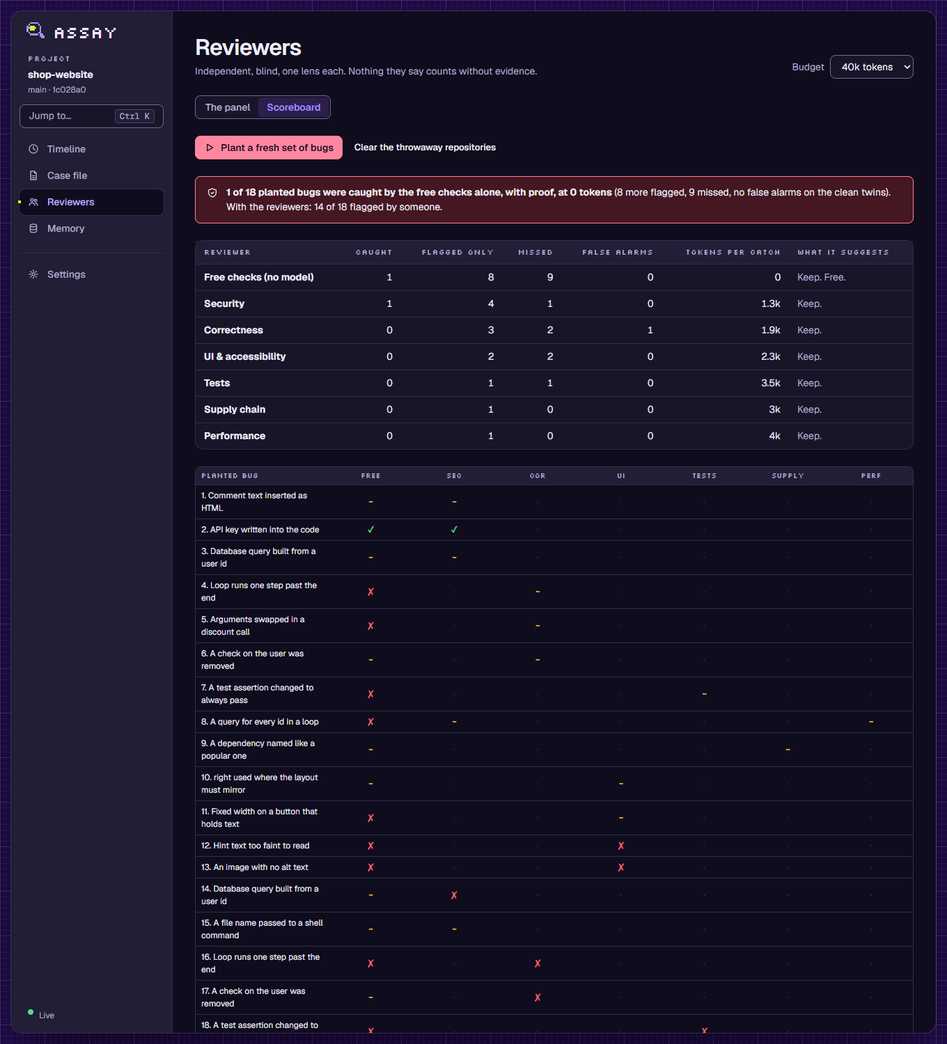
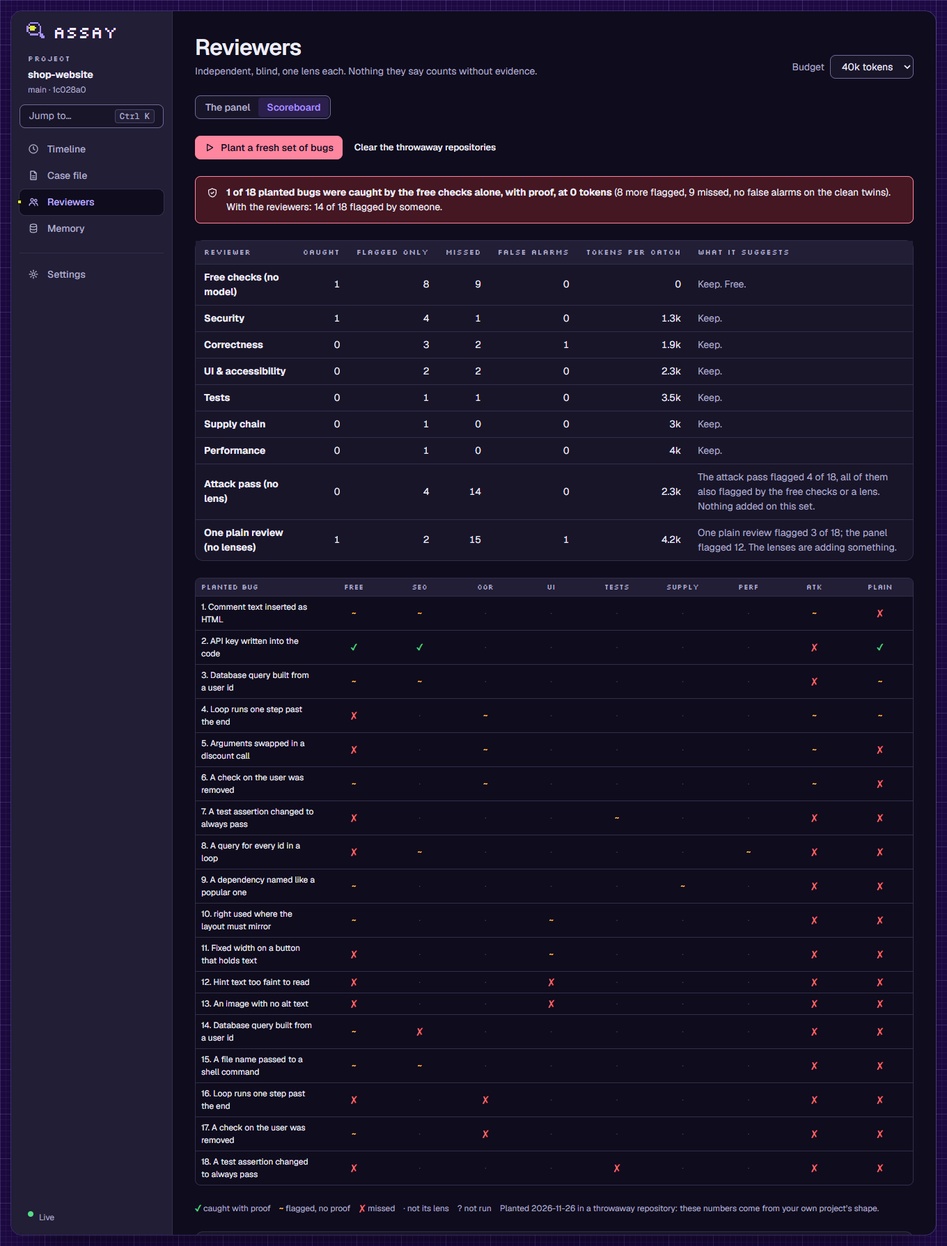
Show the attack pass and a replay of your own history in the demo
The demo's Scoreboard gets an Attack pass row and an Atk column (with what it adds over the free checks and the lenses) next to the plain review, and a From your own history card with sample data. The screenshots script reports as the attack pass and the plain review, and the dashboard's scoreboard picture is retaken with both. 205 tests.

diff --git a/demo/index.html b/demo/index.html
@@ -458,7 +458,7 @@ pre.code, .rawblock { margin: 0; padding: var(--s3) var(--s4); border-radius: va
 .bignum b { font-size: var(--t-xl); letter-spacing: -0.02em; font-variant-numeric: tabular-nums; }
 .bignum span { color: var(--text-dim); font-size: var(--t-xs); }
 .mx { display: grid; border: 1px solid var(--border); border-radius: var(--r1); overflow: hidden; }
-.mx-row { display: grid; grid-template-columns: minmax(180px, 1.6fr) repeat(8, minmax(52px, 1fr)); }
+.mx-row { display: grid; grid-template-columns: minmax(180px, 1.6fr) repeat(9, minmax(48px, 1fr)); }
 .mx-row > div { padding: 6px var(--s2); border-bottom: 1px solid var(--border); font-size: var(--t-xs); text-align: center; display: grid; place-items: center; }
 .mx-row > div:first-child { text-align: left; place-items: center start; }
 .mx-row:last-child > div { border-bottom: 0; }
@@ -520,7 +520,7 @@ textarea.brief { width: 100%; min-height: 220px; padding: var(--s3); border: 1px
   .cmp-matrix { grid-template-columns: repeat(2, minmax(0, 1fr)); }
   .cmp-side { grid-template-columns: 1fr; }
   .stepper, .rgrid { grid-template-columns: 1fr; }
-  .mx-row { grid-template-columns: minmax(150px, 1.6fr) repeat(8, minmax(40px, 1fr)); }
+  .mx-row { grid-template-columns: minmax(150px, 1.6fr) repeat(9, minmax(36px, 1fr)); }
   .page-title { font-size: var(--t-2xl, 1.875rem); }
 }
 @media (prefers-reduced-motion: reduce) {
@@ -793,21 +793,22 @@ const CAL_ROWS = [
   { id: 'ui', name: 'UI & accessibility', tokens: 3400, alarms: 0 },
   { id: 'sup', name: 'Supply chain', tokens: 2200, alarms: 1 },
   { id: 'perf', name: 'Performance', tokens: 3000, alarms: 2 },
+  { id: 'attack', name: 'Attack pass (no lens)', tokens: 7200, alarms: 2 },
   { id: 'plain', name: 'One plain AI review (no gate)', tokens: 9500, alarms: 7, plain: true }
 ];
 const CAL_BUGS = [
-  ['Off-by-one in pagination', 'm-Ch---h'],
-  ['Auth check removed from a route', 'mCh----m'],
-  ['Unescaped output in a template', 'CC-----h'],
-  ['Arguments swapped in a discount call', 'm-CC---h'],
-  ['Null check removed before .length', 'm-mh---m'],
-  ['SQL built by string concatenation', 'CC-----h'],
-  ['Secret hard-coded in config', 'CC-----h'],
-  ['aria-label removed from an icon button', 'C---C--m'],
-  ['left/right used in a mirrored layout', 'C---C--m'],
-  ['Test assertion weakened to always pass', 'C--C---m'],
-  ['Look-alike dependency added', 'hh---C-m'],
-  ['N+1 query added in a loop', 'C-h---Cm']
+  ['Off-by-one in pagination', 'm-Ch---hh'],
+  ['Auth check removed from a route', 'mCh----hm'],
+  ['Unescaped output in a template', 'CC-----hh'],
+  ['Arguments swapped in a discount call', 'm-CC---hh'],
+  ['Null check removed before .length', 'm-mh---hm'],
+  ['SQL built by string concatenation', 'CC-----hh'],
+  ['Secret hard-coded in config', 'CC-----mh'],
+  ['aria-label removed from an icon button', 'C---C--mm'],
+  ['left/right used in a mirrored layout', 'C---C--mm'],
+  ['Test assertion weakened to always pass', 'C--C---mm'],
+  ['Look-alike dependency added', 'hh---C-mm'],
+  ['N+1 query added in a loop', 'C-h---Chm']
 ];
 
 const STR = {
@@ -820,6 +821,25 @@ const SYMPTOMS = [
   { id: 'xss', label: 'A coupon code is inserted as HTML on /cart', firstBad: 'e5a1c03' },
   { id: 'rtl', label: 'The order summary overlaps itself in Arabic', firstBad: 'a41c9e2' }
 ];
+
+/* From your own history: real bugs, found by blame on what a fix removed, and what the free checks and each reviewer did with the line when it came in. Sample data. */
+const HIST = {
+  total: 9, commits: 6, looked: 14, elsewhere: 5,
+  rows: [
+    { name: 'Free checks (no model)', C: 2, h: 2, m: 5, per: '0', advice: 'Flagged 4 of 9 real past bugs at the time they came in, at 0 tokens.' },
+    { name: 'Security', C: 0, h: 2, m: 7, per: '2.4k', advice: 'Flagged 2 of 9.' },
+    { name: 'Correctness', C: 0, h: 4, m: 5, per: '1.6k', advice: 'Flagged 4 of 9.' },
+    { name: 'Attack pass (no lens)', C: 0, h: 5, m: 4, per: '1.9k', advice: 'Flagged 5 of 9.' },
+    { name: 'One plain AI review (no gate)', C: 0, h: 3, m: 6, per: '3.1k', advice: 'One plain review flagged 3 of 9; the panel flagged 7. The lenses are adding something.' }
+  ],
+  bugs: [
+    ['web/src/cart/CouponError.tsx:38', 'Show coupon errors in the cart', 'fix: show coupon errors as text', 'C'],
+    ['api/cart.py:82', 'Apply coupons on the server', 'fix: an empty cart answers 400', 'm'],
+    ['api/discount.py:14', 'Add discount rules', 'fix: swap the arguments of the discount call', 'm'],
+    ['web/src/checkout/summary.css:12', 'Restyle the order summary', 'fix: use inset-inline-end for the badge', 'h']
+  ],
+  seen: 7
+};
 
 /* Assay demo. One page of vanilla JS. The real tool would build the DOM with an h() helper and text nodes;
    this prototype uses template strings with escaping, because everything on screen is sample data. */
@@ -1329,14 +1349,30 @@ function pageScore() {
   const union = CAL_BUGS.slice(0, n).filter(([, s]) => s.slice(0, 7).includes('C')).length; const free = CAL_BUGS.slice(0, n).filter(([, s]) => s[0] === 'C').length;
   const btn = `<button class="btn btn-second" data-act="inject" ${S.cal.state === 'running' ? 'disabled' : ''}>${S.cal.state === 'running' ? '<span class="spinner"></span> Planting bugs…' : ico.play + ' Plant 12 bugs and test the reviewers'}</button>`;
   if (!n) return `<div class="card card-pad" style="display:flex;flex-direction:column;gap:12px;align-items:flex-start"><div class="card-title">Who do you trust?</div><p class="dim" style="max-width:62ch">Assay plants known bugs in a throwaway copy of your code, then checks which reviewer finds what, with and without proof. It also reviews clean code to count false alarms. Reviewers that don’t earn their tokens get routed out.</p>${btn}</div>`;
-  const rows = st.map(r => `<tr><td><b>${e(r.name)}</b></td><td class="num">${r.C}</td><td class="num">${r.h}</td><td class="num">${r.m}</td><td class="num">${r.alarms}</td><td class="num">${r.C ? fmtK(Math.round(r.tokens / r.C)) : r.tokens ? '—' : '0'}</td><td class="dim">${done ? e(ADVICE[r.id]) : ''}</td></tr>`).join('');
-  const colH = CAL_ROWS.map(r => `<div title="${e(r.name)}">${e(r.name.replace('One plain AI review (no gate)', 'Plain').replace('Free checks (no model)', 'Free').replace('UI & accessibility', 'UI').replace('Supply chain', 'Supply').replace('Performance', 'Perf'))}</div>`).join('');
+  const ai = CAL_ROWS.findIndex(r => r.id === 'attack');
+  const atkSeen = CAL_BUGS.slice(0, n).filter(([, s]) => /[Ch]/.test(s[ai])).length;
+  const atkOnly = CAL_BUGS.slice(0, n).filter(([, s]) => s[0] === 'm' && !/[Ch]/.test(s.slice(1, 7)) && /[Ch]/.test(s[ai])).length;
+  const advice = { ...ADVICE, attack: `Flagged ${atkSeen} of ${n}${atkOnly ? `, and ${atkOnly} of them nothing else flagged. It earns its tokens here.` : ', all of them also flagged by the free checks or a lens. Nothing added on this sample.'}` };
+  const rows = st.map(r => `<tr><td><b>${e(r.name)}</b></td><td class="num">${r.C}</td><td class="num">${r.h}</td><td class="num">${r.m}</td><td class="num">${r.alarms}</td><td class="num">${r.C ? fmtK(Math.round(r.tokens / r.C)) : r.tokens ? '—' : '0'}</td><td class="dim">${done ? e(advice[r.id]) : ''}</td></tr>`).join('');
+  const colH = CAL_ROWS.map(r => `<div title="${e(r.name)}">${e(r.name.replace('One plain AI review (no gate)', 'Plain').replace('Free checks (no model)', 'Free').replace('Attack pass (no lens)', 'Atk').replace('UI & accessibility', 'UI').replace('Supply chain', 'Supply').replace('Performance', 'Perf'))}</div>`).join('');
   const mrows = CAL_BUGS.slice(0, n).map(([name, s], k) => `<div class="mx-row"><div>${k + 1}. ${e(name)}</div>${[...s].map((ch, ci) => `<div class="${CAL_ROWS[ci].plain ? 'plain-row' : ''}"><span class="${ch === '-' ? 'na' : ch}" title="${ch === 'C' ? 'Caught, with proof' : ch === 'h' ? 'Flagged, no proof' : ch === 'm' ? 'Missed' : 'Not this reviewer’s lens'}">${ch === 'C' ? '✓' : ch === 'h' ? '~' : ch === 'm' ? '✗' : '·'}</span></div>`).join('')}</div>`).join('');
   return `<div class="toolbar">${btn}</div>
     <div class="callout callout-ai">${ico.shield}<div><b>${free} of ${n} planted bugs were caught by the free checks alone, with proof, at 0 tokens.</b> With the reviewers: ${union} of ${n}.${done ? ' Only bug 5 (a removed null check) stayed a hint.' : ''}</div></div>
     <div class="card"><div class="table-wrap"><table class="table"><thead><tr><th>Reviewer</th><th class="num" title="Caught, with proof">Caught</th><th class="num" title="Flagged without proof">Flagged only</th><th class="num">Missed</th><th class="num" title="Flags on clean code">False alarms</th><th class="num">Tokens per catch</th><th>What it suggests</th></tr></thead><tbody>${rows}</tbody></table></div></div>
     <div class="mx" role="table" aria-label="Which reviewer caught which planted bug"><div class="mx-row mx-head"><div>Planted bug</div>${colH}</div>${mrows}</div>
-    <div class="legend"><span><b style="color:var(--ok)">✓</b> caught with proof</span><span><b style="color:var(--warn-ink)">~</b> flagged, no proof</span><span><b style="color:var(--danger)">✗</b> missed</span><span>· not its lens</span><span>Sample numbers: yours would come from your own repos.</span></div>`;
+    <div class="legend"><span><b style="color:var(--ok)">✓</b> caught with proof</span><span><b style="color:var(--warn-ink)">~</b> flagged, no proof</span><span><b style="color:var(--danger)">✗</b> missed</span><span>· not its lens</span><span>Sample numbers: yours would come from your own repos.</span></div>${done ? histCard() : ''}`;
+}
+
+/* the replay of the project's own fix commits: real bugs, found by blame, scored the same way */
+function histCard() {
+  const mark = ch => `<span class="${ch}" title="${ch === 'C' ? 'Caught, with proof' : ch === 'h' ? 'Flagged, no proof' : 'Missed'}">${ch === 'C' ? '✓' : ch === 'h' ? '~' : '✗'}</span>`;
+  const rows = HIST.rows.map(r => `<tr><td><b>${e(r.name)}</b></td><td class="num">${r.C}</td><td class="num">${r.h}</td><td class="num">${r.m}</td><td class="num">${e(r.per)}</td><td class="dim">${e(r.advice)}</td></tr>`).join('');
+  const list = HIST.bugs.map(([where, came, fix, ch]) => `<li><span class="mx">${mark(ch)}</span> <code>${e(where)}</code> <span class="dim">came in with “${e(came)}”, fixed by “${e(fix)}”</span></li>`).join('');
+  return `<div class="card card-pad" style="display:flex;flex-direction:column;gap:12px;margin-top:var(--s4)"><div class="card-title">From your own history</div>
+    <div class="callout callout-ai">${ico.shield}<div><b>2 of ${HIST.total} real past bugs were caught by the free checks alone, with proof, when they came in</b> (2 more flagged, 5 missed), at 0 tokens. With the reviewers: ${HIST.seen} of ${HIST.total} flagged by someone. <span class="dim">${HIST.elsewhere} more flags elsewhere in those commits are not counted: nobody knows those lines are clean. A removed line is a proxy for the defect, so this is a sample of your own history, not a verdict.</span></div></div>
+    <div class="table-wrap"><table class="table"><thead><tr><th>Reviewer</th><th class="num">Caught</th><th class="num">Flagged only</th><th class="num">Missed</th><th class="num">Tokens per catch</th><th>What it suggests</th></tr></thead><tbody>${rows}</tbody></table></div>
+    <ul style="list-style:none;margin:0;padding:0;display:grid;gap:6px">${list}</ul>
+    <p class="dim">${HIST.commits} commits replayed (${HIST.looked} fix commits looked at), from <code>assay calibrate history start</code>. Sample data.</p></div>`;
 }
 ACT.inject = async () => { S.cal = { state: 'running', n: 0 }; render(); for (let i = 1; i <= CAL_BUGS.length; i++) { await sleep(330); S.cal.n = i; if (parseHash().page === 'reviewers') render(); } S.cal.state = 'done'; render(); announce('Calibration done'); };
 

diff --git a/demo/src/app.js b/demo/src/app.js
@@ -506,14 +506,30 @@ function pageScore() {
   const union = CAL_BUGS.slice(0, n).filter(([, s]) => s.slice(0, 7).includes('C')).length; const free = CAL_BUGS.slice(0, n).filter(([, s]) => s[0] === 'C').length;
   const btn = `<button class="btn btn-second" data-act="inject" ${S.cal.state === 'running' ? 'disabled' : ''}>${S.cal.state === 'running' ? '<span class="spinner"></span> Planting bugs…' : ico.play + ' Plant 12 bugs and test the reviewers'}</button>`;
   if (!n) return `<div class="card card-pad" style="display:flex;flex-direction:column;gap:12px;align-items:flex-start"><div class="card-title">Who do you trust?</div><p class="dim" style="max-width:62ch">Assay plants known bugs in a throwaway copy of your code, then checks which reviewer finds what, with and without proof. It also reviews clean code to count false alarms. Reviewers that don’t earn their tokens get routed out.</p>${btn}</div>`;
-  const rows = st.map(r => `<tr><td><b>${e(r.name)}</b></td><td class="num">${r.C}</td><td class="num">${r.h}</td><td class="num">${r.m}</td><td class="num">${r.alarms}</td><td class="num">${r.C ? fmtK(Math.round(r.tokens / r.C)) : r.tokens ? '—' : '0'}</td><td class="dim">${done ? e(ADVICE[r.id]) : ''}</td></tr>`).join('');
-  const colH = CAL_ROWS.map(r => `<div title="${e(r.name)}">${e(r.name.replace('One plain AI review (no gate)', 'Plain').replace('Free checks (no model)', 'Free').replace('UI & accessibility', 'UI').replace('Supply chain', 'Supply').replace('Performance', 'Perf'))}</div>`).join('');
+  const ai = CAL_ROWS.findIndex(r => r.id === 'attack');
+  const atkSeen = CAL_BUGS.slice(0, n).filter(([, s]) => /[Ch]/.test(s[ai])).length;
+  const atkOnly = CAL_BUGS.slice(0, n).filter(([, s]) => s[0] === 'm' && !/[Ch]/.test(s.slice(1, 7)) && /[Ch]/.test(s[ai])).length;
+  const advice = { ...ADVICE, attack: `Flagged ${atkSeen} of ${n}${atkOnly ? `, and ${atkOnly} of them nothing else flagged. It earns its tokens here.` : ', all of them also flagged by the free checks or a lens. Nothing added on this sample.'}` };
+  const rows = st.map(r => `<tr><td><b>${e(r.name)}</b></td><td class="num">${r.C}</td><td class="num">${r.h}</td><td class="num">${r.m}</td><td class="num">${r.alarms}</td><td class="num">${r.C ? fmtK(Math.round(r.tokens / r.C)) : r.tokens ? '—' : '0'}</td><td class="dim">${done ? e(advice[r.id]) : ''}</td></tr>`).join('');
+  const colH = CAL_ROWS.map(r => `<div title="${e(r.name)}">${e(r.name.replace('One plain AI review (no gate)', 'Plain').replace('Free checks (no model)', 'Free').replace('Attack pass (no lens)', 'Atk').replace('UI & accessibility', 'UI').replace('Supply chain', 'Supply').replace('Performance', 'Perf'))}</div>`).join('');
   const mrows = CAL_BUGS.slice(0, n).map(([name, s], k) => `<div class="mx-row"><div>${k + 1}. ${e(name)}</div>${[...s].map((ch, ci) => `<div class="${CAL_ROWS[ci].plain ? 'plain-row' : ''}"><span class="${ch === '-' ? 'na' : ch}" title="${ch === 'C' ? 'Caught, with proof' : ch === 'h' ? 'Flagged, no proof' : ch === 'm' ? 'Missed' : 'Not this reviewer’s lens'}">${ch === 'C' ? '✓' : ch === 'h' ? '~' : ch === 'm' ? '✗' : '·'}</span></div>`).join('')}</div>`).join('');
   return `<div class="toolbar">${btn}</div>
     <div class="callout callout-ai">${ico.shield}<div><b>${free} of ${n} planted bugs were caught by the free checks alone, with proof, at 0 tokens.</b> With the reviewers: ${union} of ${n}.${done ? ' Only bug 5 (a removed null check) stayed a hint.' : ''}</div></div>
     <div class="card"><div class="table-wrap"><table class="table"><thead><tr><th>Reviewer</th><th class="num" title="Caught, with proof">Caught</th><th class="num" title="Flagged without proof">Flagged only</th><th class="num">Missed</th><th class="num" title="Flags on clean code">False alarms</th><th class="num">Tokens per catch</th><th>What it suggests</th></tr></thead><tbody>${rows}</tbody></table></div></div>
     <div class="mx" role="table" aria-label="Which reviewer caught which planted bug"><div class="mx-row mx-head"><div>Planted bug</div>${colH}</div>${mrows}</div>
-    <div class="legend"><span><b style="color:var(--ok)">✓</b> caught with proof</span><span><b style="color:var(--warn-ink)">~</b> flagged, no proof</span><span><b style="color:var(--danger)">✗</b> missed</span><span>· not its lens</span><span>Sample numbers: yours would come from your own repos.</span></div>`;
+    <div class="legend"><span><b style="color:var(--ok)">✓</b> caught with proof</span><span><b style="color:var(--warn-ink)">~</b> flagged, no proof</span><span><b style="color:var(--danger)">✗</b> missed</span><span>· not its lens</span><span>Sample numbers: yours would come from your own repos.</span></div>${done ? histCard() : ''}`;
+}
+
+/* the replay of the project's own fix commits: real bugs, found by blame, scored the same way */
+function histCard() {
+  const mark = ch => `<span class="${ch}" title="${ch === 'C' ? 'Caught, with proof' : ch === 'h' ? 'Flagged, no proof' : 'Missed'}">${ch === 'C' ? '✓' : ch === 'h' ? '~' : '✗'}</span>`;
+  const rows = HIST.rows.map(r => `<tr><td><b>${e(r.name)}</b></td><td class="num">${r.C}</td><td class="num">${r.h}</td><td class="num">${r.m}</td><td class="num">${e(r.per)}</td><td class="dim">${e(r.advice)}</td></tr>`).join('');
+  const list = HIST.bugs.map(([where, came, fix, ch]) => `<li><span class="mx">${mark(ch)}</span> <code>${e(where)}</code> <span class="dim">came in with “${e(came)}”, fixed by “${e(fix)}”</span></li>`).join('');
+  return `<div class="card card-pad" style="display:flex;flex-direction:column;gap:12px;margin-top:var(--s4)"><div class="card-title">From your own history</div>
+    <div class="callout callout-ai">${ico.shield}<div><b>2 of ${HIST.total} real past bugs were caught by the free checks alone, with proof, when they came in</b> (2 more flagged, 5 missed), at 0 tokens. With the reviewers: ${HIST.seen} of ${HIST.total} flagged by someone. <span class="dim">${HIST.elsewhere} more flags elsewhere in those commits are not counted: nobody knows those lines are clean. A removed line is a proxy for the defect, so this is a sample of your own history, not a verdict.</span></div></div>
+    <div class="table-wrap"><table class="table"><thead><tr><th>Reviewer</th><th class="num">Caught</th><th class="num">Flagged only</th><th class="num">Missed</th><th class="num">Tokens per catch</th><th>What it suggests</th></tr></thead><tbody>${rows}</tbody></table></div>
+    <ul style="list-style:none;margin:0;padding:0;display:grid;gap:6px">${list}</ul>
+    <p class="dim">${HIST.commits} commits replayed (${HIST.looked} fix commits looked at), from <code>assay calibrate history start</code>. Sample data.</p></div>`;
 }
 ACT.inject = async () => { S.cal = { state: 'running', n: 0 }; render(); for (let i = 1; i <= CAL_BUGS.length; i++) { await sleep(330); S.cal.n = i; if (parseHash().page === 'reviewers') render(); } S.cal.state = 'done'; render(); announce('Calibration done'); };
 

diff --git a/demo/src/data.js b/demo/src/data.js
@@ -221,21 +221,22 @@ const CAL_ROWS = [
   { id: 'ui', name: 'UI & accessibility', tokens: 3400, alarms: 0 },
   { id: 'sup', name: 'Supply chain', tokens: 2200, alarms: 1 },
   { id: 'perf', name: 'Performance', tokens: 3000, alarms: 2 },
+  { id: 'attack', name: 'Attack pass (no lens)', tokens: 7200, alarms: 2 },
   { id: 'plain', name: 'One plain AI review (no gate)', tokens: 9500, alarms: 7, plain: true }
 ];
 const CAL_BUGS = [
-  ['Off-by-one in pagination', 'm-Ch---h'],
-  ['Auth check removed from a route', 'mCh----m'],
-  ['Unescaped output in a template', 'CC-----h'],
-  ['Arguments swapped in a discount call', 'm-CC---h'],
-  ['Null check removed before .length', 'm-mh---m'],
-  ['SQL built by string concatenation', 'CC-----h'],
-  ['Secret hard-coded in config', 'CC-----h'],
-  ['aria-label removed from an icon button', 'C---C--m'],
-  ['left/right used in a mirrored layout', 'C---C--m'],
-  ['Test assertion weakened to always pass', 'C--C---m'],
-  ['Look-alike dependency added', 'hh---C-m'],
-  ['N+1 query added in a loop', 'C-h---Cm']
+  ['Off-by-one in pagination', 'm-Ch---hh'],
+  ['Auth check removed from a route', 'mCh----hm'],
+  ['Unescaped output in a template', 'CC-----hh'],
+  ['Arguments swapped in a discount call', 'm-CC---hh'],
+  ['Null check removed before .length', 'm-mh---hm'],
+  ['SQL built by string concatenation', 'CC-----hh'],
+  ['Secret hard-coded in config', 'CC-----mh'],
+  ['aria-label removed from an icon button', 'C---C--mm'],
+  ['left/right used in a mirrored layout', 'C---C--mm'],
+  ['Test assertion weakened to always pass', 'C--C---mm'],
+  ['Look-alike dependency added', 'hh---C-mm'],
+  ['N+1 query added in a loop', 'C-h---Chm']
 ];
 
 const STR = {
@@ -248,3 +249,22 @@ const SYMPTOMS = [
   { id: 'xss', label: 'A coupon code is inserted as HTML on /cart', firstBad: 'e5a1c03' },
   { id: 'rtl', label: 'The order summary overlaps itself in Arabic', firstBad: 'a41c9e2' }
 ];
+
+/* From your own history: real bugs, found by blame on what a fix removed, and what the free checks and each reviewer did with the line when it came in. Sample data. */
+const HIST = {
+  total: 9, commits: 6, looked: 14, elsewhere: 5,
+  rows: [
+    { name: 'Free checks (no model)', C: 2, h: 2, m: 5, per: '0', advice: 'Flagged 4 of 9 real past bugs at the time they came in, at 0 tokens.' },
+    { name: 'Security', C: 0, h: 2, m: 7, per: '2.4k', advice: 'Flagged 2 of 9.' },
+    { name: 'Correctness', C: 0, h: 4, m: 5, per: '1.6k', advice: 'Flagged 4 of 9.' },
+    { name: 'Attack pass (no lens)', C: 0, h: 5, m: 4, per: '1.9k', advice: 'Flagged 5 of 9.' },
+    { name: 'One plain AI review (no gate)', C: 0, h: 3, m: 6, per: '3.1k', advice: 'One plain review flagged 3 of 9; the panel flagged 7. The lenses are adding something.' }
+  ],
+  bugs: [
+    ['web/src/cart/CouponError.tsx:38', 'Show coupon errors in the cart', 'fix: show coupon errors as text', 'C'],
+    ['api/cart.py:82', 'Apply coupons on the server', 'fix: an empty cart answers 400', 'm'],
+    ['api/discount.py:14', 'Add discount rules', 'fix: swap the arguments of the discount call', 'm'],
+    ['web/src/checkout/summary.css:12', 'Restyle the order summary', 'fix: use inset-inline-end for the badge', 'h']
+  ],
+  seen: 7
+};

diff --git a/demo/src/style.css b/demo/src/style.css
@@ -450,7 +450,7 @@ pre.code, .rawblock { margin: 0; padding: var(--s3) var(--s4); border-radius: va
 .bignum b { font-size: var(--t-xl); letter-spacing: -0.02em; font-variant-numeric: tabular-nums; }
 .bignum span { color: var(--text-dim); font-size: var(--t-xs); }
 .mx { display: grid; border: 1px solid var(--border); border-radius: var(--r1); overflow: hidden; }
-.mx-row { display: grid; grid-template-columns: minmax(180px, 1.6fr) repeat(8, minmax(52px, 1fr)); }
+.mx-row { display: grid; grid-template-columns: minmax(180px, 1.6fr) repeat(9, minmax(48px, 1fr)); }
 .mx-row > div { padding: 6px var(--s2); border-bottom: 1px solid var(--border); font-size: var(--t-xs); text-align: center; display: grid; place-items: center; }
 .mx-row > div:first-child { text-align: left; place-items: center start; }
 .mx-row:last-child > div { border-bottom: 0; }
@@ -512,7 +512,7 @@ textarea.brief { width: 100%; min-height: 220px; padding: var(--s3); border: 1px
   .cmp-matrix { grid-template-columns: repeat(2, minmax(0, 1fr)); }
   .cmp-side { grid-template-columns: 1fr; }
   .stepper, .rgrid { grid-template-columns: 1fr; }
-  .mx-row { grid-template-columns: minmax(150px, 1.6fr) repeat(8, minmax(40px, 1fr)); }
+  .mx-row { grid-template-columns: minmax(150px, 1.6fr) repeat(9, minmax(36px, 1fr)); }
   .page-title { font-size: var(--t-2xl, 1.875rem); }
 }
 @media (prefers-reduced-motion: reduce) {

diff --git a/CHANGELOG.md b/CHANGELOG.md
@@ -6,6 +6,9 @@ All notable changes. Back to the [README](README.md). The format follows [Keep a
 
 ### Added
 
+**The demo and the pictures follow the product**
+- The demo's Scoreboard shows the attack pass (a row and an *Atk* column, with what it adds) next to the plain review, and a *From your own history* card with sample data. `npm run screenshots` retakes the dashboard's scoreboard with the attack pass and the plain review in it.
+
 **Arabic text in the browser checks** (`assay look`, MCP `look`)
 - A twelfth combination (on both sizes and both colour schemes): the page is mirrored, set to `lang="ar"`, and its own text is swapped for real Arabic letters about 30% longer, so the browser shapes them and falls back to an Arabic font as it would for a translation. Mirroring alone never met a box sized for English words. The same swap is made at the base and at the head, so only what the change added counts, and a problem seen only here says so ("… with Arabic text").
 - It is pseudo-localisation, not a translation. A desktop picture is kept for it on the before-and-after screen.
@@ -97,7 +100,7 @@ All notable changes. Back to the [README](README.md). The format follows [Keep a
 - Fixed (found by the first CI run): **a folder is one repository however it is spelled.** The key behind allow-run, memory, caches and calibration comes from the real folder, so a folder reached through a link (macOS keeps `/var` and `/tmp` behind one) or by a Windows 8.3 short name is no longer taken for a second repository, one that was never allowed to run anything and had no memory.
 - Fixed (found by the same run): two calibration runs started in the same second got the same commits and so the same cases, with the first run's reports in the second. Each run now has its own.
 
-25 more tests for the dashboard (86 in all), 29 for memory (115), 24 for reviewers (139) and 14 for calibration (153), plus 2 for the fixes above (155), 10 for finding which commit broke the tests (165), 20 for the attack pass, the plain review and the replay of your own history (185), 6 for function before and after (191) and 4 for the known limits (195), including the dashboard over real HTTP, a real test run stopped from the page, and the real page in a real browser.
+25 more tests for the dashboard (86 in all), 29 for memory (115), 24 for reviewers (139) and 14 for calibration (153), plus 2 for the fixes above (155), 10 for finding which commit broke the tests (165), 20 for the attack pass, the plain review and the replay of your own history (185), 6 for function before and after (191), 4 for the known limits (195) and 10 for scoring the attack pass, language-aware mutation and Arabic text (205), including the dashboard over real HTTP, a real test run stopped from the page, and the real page in a real browser.
 
 ### Not built yet
 

diff --git a/docs/PROJECT.md b/docs/PROJECT.md
@@ -129,6 +129,7 @@ State lives in `~/.assay` (or `ASSAY_HOME`): `cases/`, `cache/<repo>/<commit>.js
 
 ## 7. Where it stands
 
+- **Demo and pictures 2026-11-26**: `demo/src` (an *Attack pass* row and *Atk* column, a *From your own history* card, nine matrix columns), `scripts/screenshots.mjs` (reports as the attack pass and the plain review, the nine-column selector), `docs/images/dashboard-scoreboard.png` retaken. The demo still shows eight combinations of size, theme and language for before and after; the product measures twelve (D57).
 - **Arabic text in the browser checks 2026-11-26** (D57): `ARABIC_SRC` in `browser/inspect.ts`, a third direction in `look.ts` (12 combinations), "… with Arabic text" in a finding that only shows there, a desktop picture for it on the before-and-after screen. Test: a button that fits its English label exactly and has `overflow: hidden` added at the head is found only with Arabic text, anchored on the line that made it, replays, and an ellipsis is left alone.
 - **Language-aware mutation 2026-11-26** (D56): `proof/mutate.ts` (a lexer per language family, `codeLines`, operators per family). Tests: the operators each language has, a negation with and without parentheses and as `not`, Python's own, a comment in each language, the inside of a string, a block comment, a docstring and a template string, a Rust lifetime against a character literal, a `+` that joins text, an array length, imports, annotations and SQL, and picking by each file's language.
 - **Attack pass scored 2026-11-26** (D55): `score.ts` (a row and a cell per bug, `attackRan`, `attackSeen`, `attackOnly`), the matrix column in the dashboard and the CLI scoreboard. Test: not reported yet, then caught, flagged, missed and a false alarm on the clean twin with tokens, what only it flagged, and the advice after a lens reviewer reports.

diff --git a/README.md b/README.md
@@ -108,7 +108,7 @@ Does each reviewer earn its tokens? Assay plants known bugs in a throwaway repos
 node /path/to/assay/packages/cli/dist/index.js calibrate start     # plant, score the free checks, print what to give your agent
 ```
 
-![The Scoreboard: the free checks scored at no cost, and six reviewers on catches, misses, false alarms and tokens per catch](docs/images/dashboard-scoreboard.png)
+![The Scoreboard: the free checks scored at no cost, six reviewers, the attack pass and one plain review on catches, misses, false alarms and tokens per catch](docs/images/dashboard-scoreboard.png)
 
 Nothing in your project is touched, no model is called by Assay, and nothing is spent until your agent runs the reviewers. [The calibration guide →](docs/CALIBRATION.md)
 
@@ -128,7 +128,7 @@ Reading a diff runs nothing. Running tests, a dev server or a browser happens on
 
 ## Status
 
-Built and tested (195 tests, including real `npm test` runs and a real browser):
+Built and tested (205 tests, including real `npm test` runs and a real browser):
 
 - the engine, CLI, MCP server and one-file HTML report
 - proof: tests at base and head, the revert test, mutation, with caching and a time budget

diff --git a/docs/CALIBRATION.md b/docs/CALIBRATION.md
@@ -4,7 +4,7 @@ Does each reviewer earn its tokens? Plant known bugs, and find out. Back to the 
 
 A reviewer's opinion of itself is worth nothing, and a model's confidence is worth little more. Calibration replaces both with a measurement: Assay plants bugs it knows about in a throwaway repository, **scores the free checks on the spot**, has your own agent run the reviewers on it, and scores each reviewer on what it caught, what it missed, and what it flagged in code that was fine. A reviewer that doesn't earn its tokens is left out of future plans.
 
-![The Scoreboard: 18 planted bugs, the free checks scored at no cost, and six reviewers scored on catches, misses, false alarms and tokens per catch](images/dashboard-scoreboard.png)
+![The Scoreboard: 18 planted bugs, the free checks scored at no cost, and six reviewers, the attack pass and one plain review scored on catches, misses, false alarms and tokens per catch](images/dashboard-scoreboard.png)
 
 **Assay never calls a model**, here as everywhere. The free checks are scored without one. The reviewers are run by your agent (the same panel as [Reviewers](REVIEWERS.md)), and Assay does the planting and the scoring.
 

diff --git a/docs/ARCHITECTURE.md b/docs/ARCHITECTURE.md
@@ -219,7 +219,7 @@ job:    own(case) ─▶ proveCase(case, {signal, onProgress}) ─▶ {report, c
 
 ## Tests
 
-195 tests across the four packages, run with `npm test` (it builds first):
+205 tests across the four packages, run with `npm test` (it builds first):
 
 - the diff parser, the tier function, risk, masking, and the checks, on fixture repositories built with the real `git` in the OS temp folder
 - `calibration.test.ts`: one test per false positive found by running Assay on real repositories
